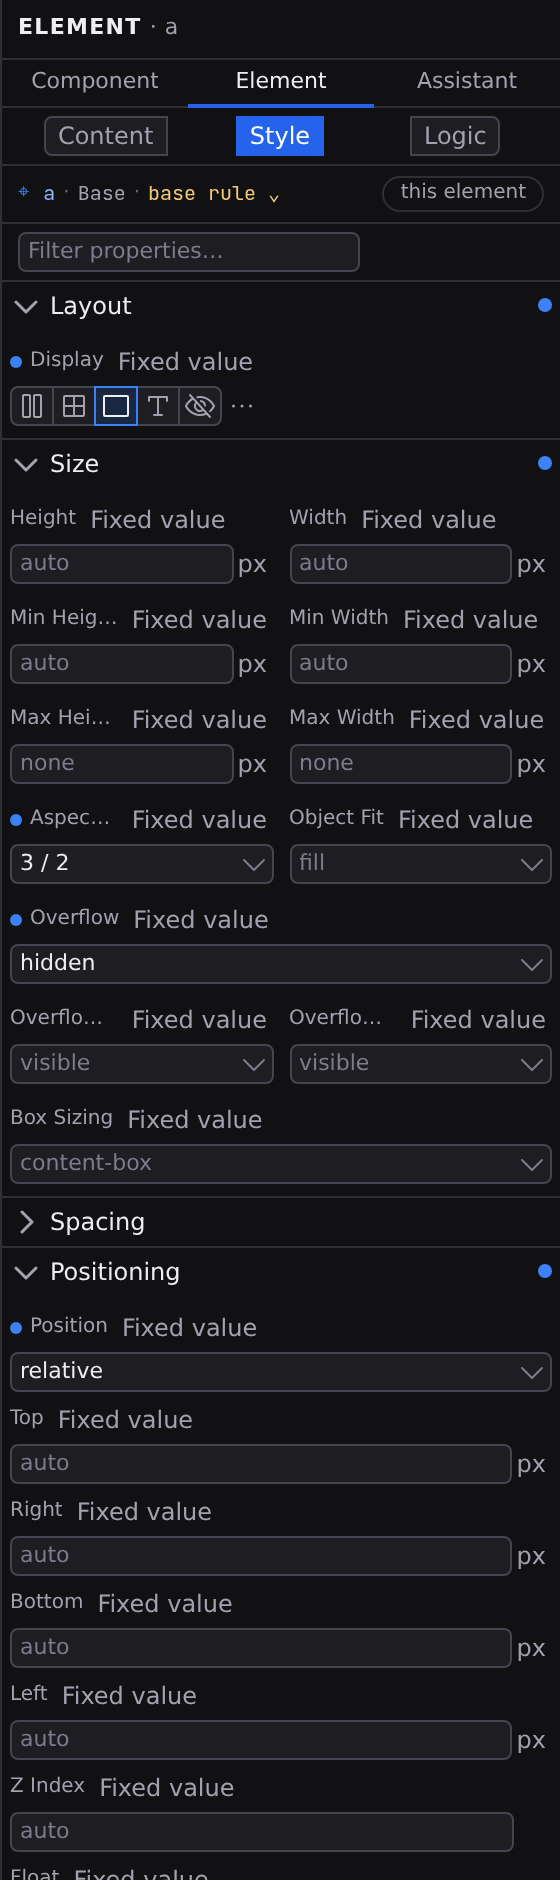
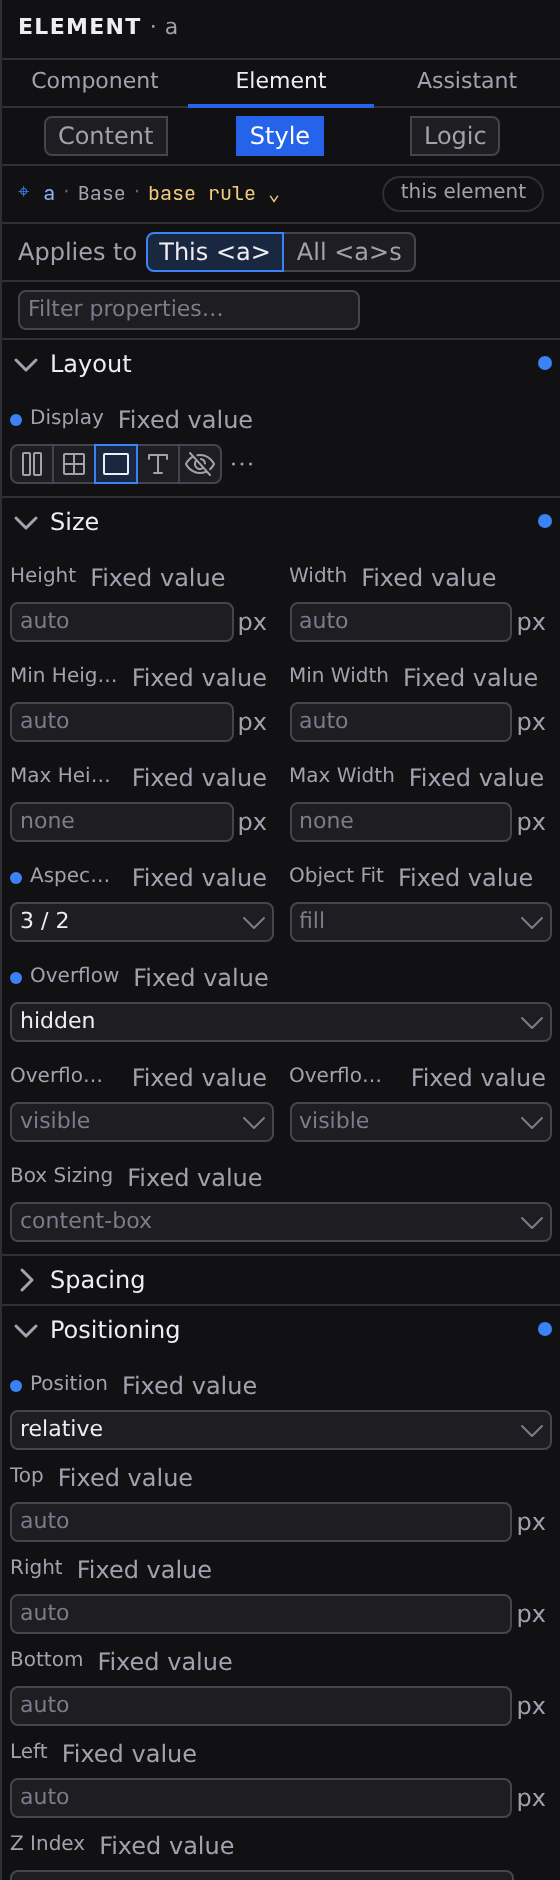
feat(studio): Applies to in Design's Style tab (#584)

Changed region(s): [[0.0, 0.1234, 1.0, 1.0], [0.9411, 0.1543, 1.0, 0.216]]

diff --git a/packages/studio/tests/style-panel.test.ts b/packages/studio/tests/style-panel.test.ts
@@ -42,6 +42,7 @@ void mock.module("../src/store", () => ({
 const selectStylebookTagMock = mock((..._args: unknown[]) => {});
 void mock.module("../src/panels/stylebook-panel", () => ({
   selectStylebookTag: selectStylebookTagMock,
+  stylebookMeta: { $sections: [] },
 }));
 
 // The Target Line's segments route to commands rather than growing their own selectors, so the
@@ -53,7 +54,8 @@ void mock.module("../src/commands/active-registry", () => ({
 
 const { VARIABLES_INSPECTOR_MESSAGE, bindStyleHost, resetSelectorMenu } =
   await import("../src/panels/style-panel");
-const { mountStylePanelSurface, NO_RESTYLE } = await import("../src/surfaces/style-panel");
+const { mountStylePanelSurface, NO_APPLIES_TO, NO_RESTYLE } =
+  await import("../src/surfaces/style-panel");
 const { openSelectorMenu } = await import("../src/surfaces/target-line");
 const { initCssData } = await import("../src/panels/style-utils");
 const { initLayers } = await import("../src/ui/layers");
@@ -316,6 +318,56 @@ describe("the tab's teaching states", () => {
 });
 
 // ─── Stylebook mode ──────────────────────────────────────────────────────────
+
+describe("Applies to (§6.2)", () => {
+  test("a plain element offers itself or every one of its tag, the second in Project Styles", async () => {
+    setupTab({});
+    const c = await renderPanel("edit");
+    const choices = [...c.querySelectorAll<HTMLElement>('[part="applies-choices"] > *')];
+    expect(choices.map((choice) => choice.textContent.trim())).toEqual([
+      "This <section>",
+      "All <section>s",
+    ]);
+    expect(choices.map((choice) => ("checked" in choice ? choice.checked : null))).toEqual([
+      "true",
+      "false",
+    ]);
+    expect(choices[1]!.getAttribute("title")).toBe(
+      "Style every <section> on the site in Project Styles",
+    );
+    choices[1]!.querySelector<HTMLElement>('[part="control"]')!.click();
+    for (let turn = 0; turn < 100 && selectStylebookTagMock.mock.calls.length === 0; turn++) {
+      await flush(1);
+    }
+    expect(runMock.mock.calls[0]?.slice(0, 2)).toEqual(["styles.open", { view: "elements" }]);
+    expect(selectStylebookTagMock.mock.calls[0]).toEqual([
+      "section",
+      undefined,
+      { panCanvas: true },
+    ]);
+  });
+
+  test("the root, a component, a set of elements and Project Styles itself offer no choice", async () => {
+    const tab = setupTab({});
+    tab.session.selection = [[]];
+    const root = await renderPanel("edit");
+    expect(root.querySelector('[part="applies"]')).toBeNull();
+    tab.doc.document.children = [{ tagName: "x-card" }, { tagName: "p" }];
+    tab.session.selection = [["children", 0]];
+    await settle();
+    expect(root.querySelector('[part="applies"]')).toBeNull();
+    tab.session.selection = [
+      ["children", 1],
+      ["children", 0],
+    ];
+    await settle();
+    expect(root.querySelector('[part="applies"]')).toBeNull();
+    shell.stylebook.selection = "h1";
+    const book = await renderPanel("stylebook");
+    expect(book.querySelector('[part="applies"]')).toBeNull();
+    shell.stylebook.selection = null;
+  });
+});
 
 describe("what else styles a Project Styles element (§7.4)", () => {
   /** The components a project defines: one restyles its buttons, one does not. */
@@ -1833,6 +1885,7 @@ describe("the surface's own seam", () => {
     pressButton: () => {},
     renameCustom: () => {},
     newComponent: () => {},
+    styleAllOfTag: () => {},
     openComponent: () => {},
     runEmptyAction: () => {},
     setFilter: () => {},
@@ -1843,6 +1896,7 @@ describe("the surface's own seam", () => {
     emptyActionLabel: "",
     emptyMessage: "Open a page to style what you click.",
     filter: "",
+    appliesTo: NO_APPLIES_TO,
     hasEmptyAction: false,
     restyle: NO_RESTYLE,
     sections: [],

diff --git a/packages/studio/src/panels/style-panel.ts b/packages/studio/src/panels/style-panel.ts
@@ -128,7 +128,7 @@ import { UNIT_RE } from "../ui/unit-selector";
 import { colorTokens, resolvedColor } from "../ui/color-selector";
 import { resolveTokenValue, toTokenRef, tokenRefName } from "../style/token-ref";
 import { PROJECT_VARIABLES_VIEW } from "../style/project-styles";
-import { mountStylePanelSurface, NO_RESTYLE } from "../surfaces/style-panel";
+import { mountStylePanelSurface, NO_APPLIES_TO, NO_RESTYLE } from "../surfaces/style-panel";
 import { componentRestyles } from "../style/component-restyles";
 import { runActiveReported } from "../commands/run-reported";
 import { openMenu } from "../surfaces/menu";
@@ -146,6 +146,7 @@ import type {
   StyleOptionView,
   StylePanelActions,
   StylePanelSurface,
+  StyleAppliesToView,
   StylePanelView,
   StyleRestyleView,
   StyleRowView,
@@ -1399,10 +1400,32 @@ function emptyView(message: string, withOpen: boolean): StylePanelView {
     emptyActionLabel: withOpen ? openPageAction().label : "",
     emptyMessage: message,
     filter: "",
+    appliesTo: NO_APPLIES_TO,
     hasEmptyAction: withOpen,
     restyle: NO_RESTYLE,
     sections: [],
     view: "empty",
+  };
+}
+
+/**
+ * Design's "Applies to" pair (§6.2): an edit here changes this element; every element of its tag is
+ * the site's default, which Project Styles edits, so the second option goes there. Offered for one
+ * plain HTML element: a component's look is its own definition's, and the root is the page.
+ */
+function appliesToView(tab: Tab, node: JxMutableNode): StyleAppliesToView {
+  const tag = isString(node.tagName) ? node.tagName : "";
+  const one = tab.session.selection.length === 1;
+  const isRoot = primarySelection(tab.session.selection)?.length === 0;
+  if (!one || isRoot || !/^[a-z][a-z0-9]*$/u.test(tag)) {
+    return NO_APPLIES_TO;
+  }
+  return {
+    allHint: `Style every <${tag}> on the site in Project Styles`,
+    allLabel: `All <${tag}>s`,
+    state: "shown",
+    tag,
+    thisLabel: `This <${tag}>`,
   };
 }
 
@@ -1467,7 +1490,7 @@ function buildView(canvasMode: () => string): StylePanelView {
   if (!node) {
     return emptyView(staleSelectionMessage(), false);
   }
-  return buildEditor(tab, node, {});
+  return { ...buildEditor(tab, node, {}), appliesTo: appliesToView(tab, node) };
 }
 
 /**
@@ -1717,6 +1740,7 @@ function buildEditor(
     emptyActionLabel: "",
     emptyMessage: "",
     filter: tab.session.ui.styleFilter || "",
+    appliesTo: NO_APPLIES_TO,
     hasEmptyAction: false,
     restyle: restyleView(stylebookSelector),
     sections,
@@ -2083,6 +2107,14 @@ function openRowMenu(
 const ACTIONS: StylePanelActions = {
   newComponent: () => {
     void runActiveReported("file.new", { kind: "component" }, "Style");
+  },
+  styleAllOfTag: (tag) => {
+    // The site's default for the tag is Project Styles' to edit: open it there, on the tag.
+    void runActiveReported("styles.open", { view: "elements" }, "Style").then(() => {
+      void import("./styles-panel").then(({ STYLES_PANEL_ACTIONS }) => {
+        STYLES_PANEL_ACTIONS.selectElement(tag);
+      });
+    });
   },
   openComponent: (path) => {
     void import("../files/files").then(({ openFileInTab }) => openFileInTab(path));

diff --git a/packages/studio/src/surfaces/style-panel.ts b/packages/studio/src/surfaces/style-panel.ts
@@ -208,7 +208,36 @@ export interface StylePanelView {
   sections: StyleSectionView[];
   /** What else styles the element Project Styles is editing (studio.md §7.4). */
   restyle: StyleRestyleView;
+  /** In Design, whether an edit is to this element or to every one of its tag (§6.2). */
+  appliesTo: StyleAppliesToView;
 }
+
+/**
+ * The Design Style tab's "Applies to" pair: this element, which is what an edit here changes, or
+ * every element of its tag on the site, which is Project Styles' to edit and is where the second
+ * option takes the reader.
+ */
+export interface StyleAppliesToView {
+  /** `shown` for one plain HTML element selected in Design; `none` otherwise. */
+  state: "shown" | "none";
+  /** The selected element's tag, `h1`: what the second option opens Project Styles on. */
+  tag: string;
+  /** `This <h1>`. */
+  thisLabel: string;
+  /** `All <h1>s`. */
+  allLabel: string;
+  /** What choosing the second does: it opens Project Styles on the tag. */
+  allHint: string;
+}
+
+/** The pair when it has nothing to offer: every field present, as the document binds them all. */
+export const NO_APPLIES_TO: StyleAppliesToView = {
+  allHint: "",
+  allLabel: "",
+  state: "none",
+  tag: "",
+  thisLabel: "",
+};
 
 /** A component that restyles the element its own way, with a way to open it. */
 export interface StyleRestyleComponent {
@@ -274,6 +303,8 @@ export interface StylePanelActions {
   openComponent: (path: string) => void;
   /** Start a new component: the second kind of an element is one. */
   newComponent: () => void;
+  /** Style every element of a tag: Project Styles, on that tag. */
+  styleAllOfTag: (tag: string) => void;
 }
 
 /** Where the one announced host belongs. */
@@ -309,6 +340,7 @@ function project(scope: StylePanelScope, view: StylePanelView): void {
   scope.filter = view.filter;
   scope.sections = view.sections;
   scope.restyle = view.restyle;
+  scope.appliesTo = view.appliesTo;
 }
 
 /**
@@ -335,6 +367,7 @@ export function mountStylePanelSurface(
     emptyMessage: "",
     filter: "",
     hasEmptyAction: false,
+    appliesTo: NO_APPLIES_TO,
     restyle: NO_RESTYLE,
     sections: [],
     view: "empty",

diff --git a/packages/studio/tests/css-vars-editor.test.ts b/packages/studio/tests/css-vars-editor.test.ts
@@ -436,8 +436,14 @@ describe("the chosen colour's detail", () => {
     );
     const schemes = [...container.querySelectorAll<HTMLElement>('[part="scheme"]')];
     expect(schemes.map((button) => button.textContent.trim())).toEqual(["Base", "Dark"]);
+    // A segment of a radio group is checked by "true" or "false", never by a boolean.
+    const checkedOf = (button: Element) => ("checked" in button ? button.checked : undefined);
+    expect(schemes.map((button) => checkedOf(button))).toEqual(["true", "false"]);
     pointer(schemes[1]!, "click");
     await flush(4);
+    expect(
+      [...container.querySelectorAll('[part="scheme"]')].map((button) => checkedOf(button)),
+    ).toEqual(["false", "true"]);
     // Swatches show the Dark value where there is one, and the base value where it inherits.
     const caption = (name: string) =>
       tileOf(container, name).querySelector('[part="tile-value"]')?.textContent;

diff --git a/packages/studio/src/settings/css-vars-editor.ts b/packages/studio/src/settings/css-vars-editor.ts
@@ -430,6 +430,11 @@ function detailOf(
   };
 }
 
+/** A radio segment's `checked`, which the kit reads as the string "true" or "false". */
+function radioChecked(on: boolean): "true" | "false" {
+  return on ? "true" : "false";
+}
+
 /** The detail when no colour is chosen: every field present, as the document binds them all. */
 const NO_DETAIL: TokenDetailView = {
   addLabel: "",
@@ -502,9 +507,9 @@ function view(container: HTMLElement): CssVarsView {
     error: state.error,
     groups,
     schemes: [
-      { checked: scheme === null, label: "Base", value: "" },
+      { checked: radioChecked(scheme === null), label: "Base", value: "" },
       ...schemes.map((context) => ({
-        checked: context === scheme,
+        checked: radioChecked(context === scheme),
         label: context.label,
         value: context.name,
       })),

diff --git a/packages/studio/src/surfaces/settings-css-vars.ts b/packages/studio/src/surfaces/settings-css-vars.ts
@@ -139,7 +139,7 @@ export interface SchemeOptionView {
   /** `""` for the base value, else the scheme's `$media` entry name. */
   value: string;
   label: string;
-  checked: boolean;
+  checked: "true" | "false";
 }
 
 /** One group of tokens: its heading, its rows, its add row, and what it says about contexts. */

diff --git a/specs/studio.md b/specs/studio.md
@@ -608,6 +608,8 @@ The segments are the element, the breakpoint, the colour-scheme variant when the
 
 The trailing **scope chip** states the blast radius: _this element_, _all `<h1>` in this document_, or _all `<h1>` in this project_. The project case renders as a warning band with a count of affected files and a way to list them, and where the count cannot be answered it says **unknown** — never a confident zero. This is what makes Stylebook safe: entering it used to convert every subsequent edit from "this element" to "every element of this tag" with one line of after-the-fact text as the only signal.
 
+**Applies to: this element, or every one of its tag.** Under the Target Line in Design, with one plain HTML element selected (not the document root, not a component, not a set), the Style tab offers the pair the Design-Element board names: **This `<h1>`**, which is what an edit here changes and is chosen, and **All `<h1>`s**, which is the site's default for the tag. That default is Project Styles' to edit (§7), so choosing it does not retarget this tab; it opens Project Styles on the tag (`styles.open { view: "elements" }`, then the tag chosen as the Styles panel chooses one), where the scope chip reads _all `<h1>` in this project_. A page-level tag rule is still written from a page's own Elements view; the pair does not offer it, because a site's element defaults kept in one place is the reason Project Styles exists (`appliesToView` and `styleAllOfTag` in `panels/style-panel.ts`).
+
 The Target Line **replaces** the breakpoint tab strip, the selector picker and the scheme badge. The breakpoint and scheme axes are selected on the pane context bar, whose definition site is Project Settings › Contexts (§17.1); the Style tab does not own a third selector and therefore cannot disagree with the one the canvas is rendering under.
 
 **The selector axis is element-aware.** The common set is every state any element can be in; beyond it, an element is offered only the states the platform actually gives it — `:popover-open`, `::backdrop` and `:popover-open::backdrop` on a popover, `[open]` and `:modal` on a `<dialog>`, `:checked` / `:invalid` / `:required` / `:user-invalid` on a form field. A rule that can never match is worse than a missing one: a menu that offers unmatchable states is a menu people stop reading. What the element already DECLARES is unioned in on top, so nothing an author has written can drop out of it.

diff --git a/docs/studio/design/style-inspector.md b/docs/studio/design/style-inspector.md
@@ -51,6 +51,8 @@ At the end of the line, a chip states the blast radius of the next keystroke:
 
 The project case adds a warning band under the line: it names how many elements in how many files the edit reaches, and **Show affected** lists the files with a count each. While the count is still being worked out the band says so; where the project can't be searched it says the number is **unknown**, never a confident zero.
 
+With one element selected in Design, **Applies to** under the line says the same thing as a choice: **This `<h1>`** is what an edit here changes. **All `<h1>`s** opens [Project Styles](/docs/studio/design/stylebook) on `h1`, where an edit changes every `h1` on the site.
+
 ## Where each value came from
 
 Every field label carries a chip that answers one question: _why does this box say what it says?_

diff --git a/specs/changes/studio-a70dca4e.md b/specs/changes/studio-a70dca4e.md
@@ -1,0 +1,6 @@
+---
+spec: studio.md
+level: minor
+---
+
+Design's Style tab offers Applies to: this element, or every one of its tag, which opens Project Styles on the tag (§6.2); the Variables view's scheme switch marks its segments as a radio group expects.
